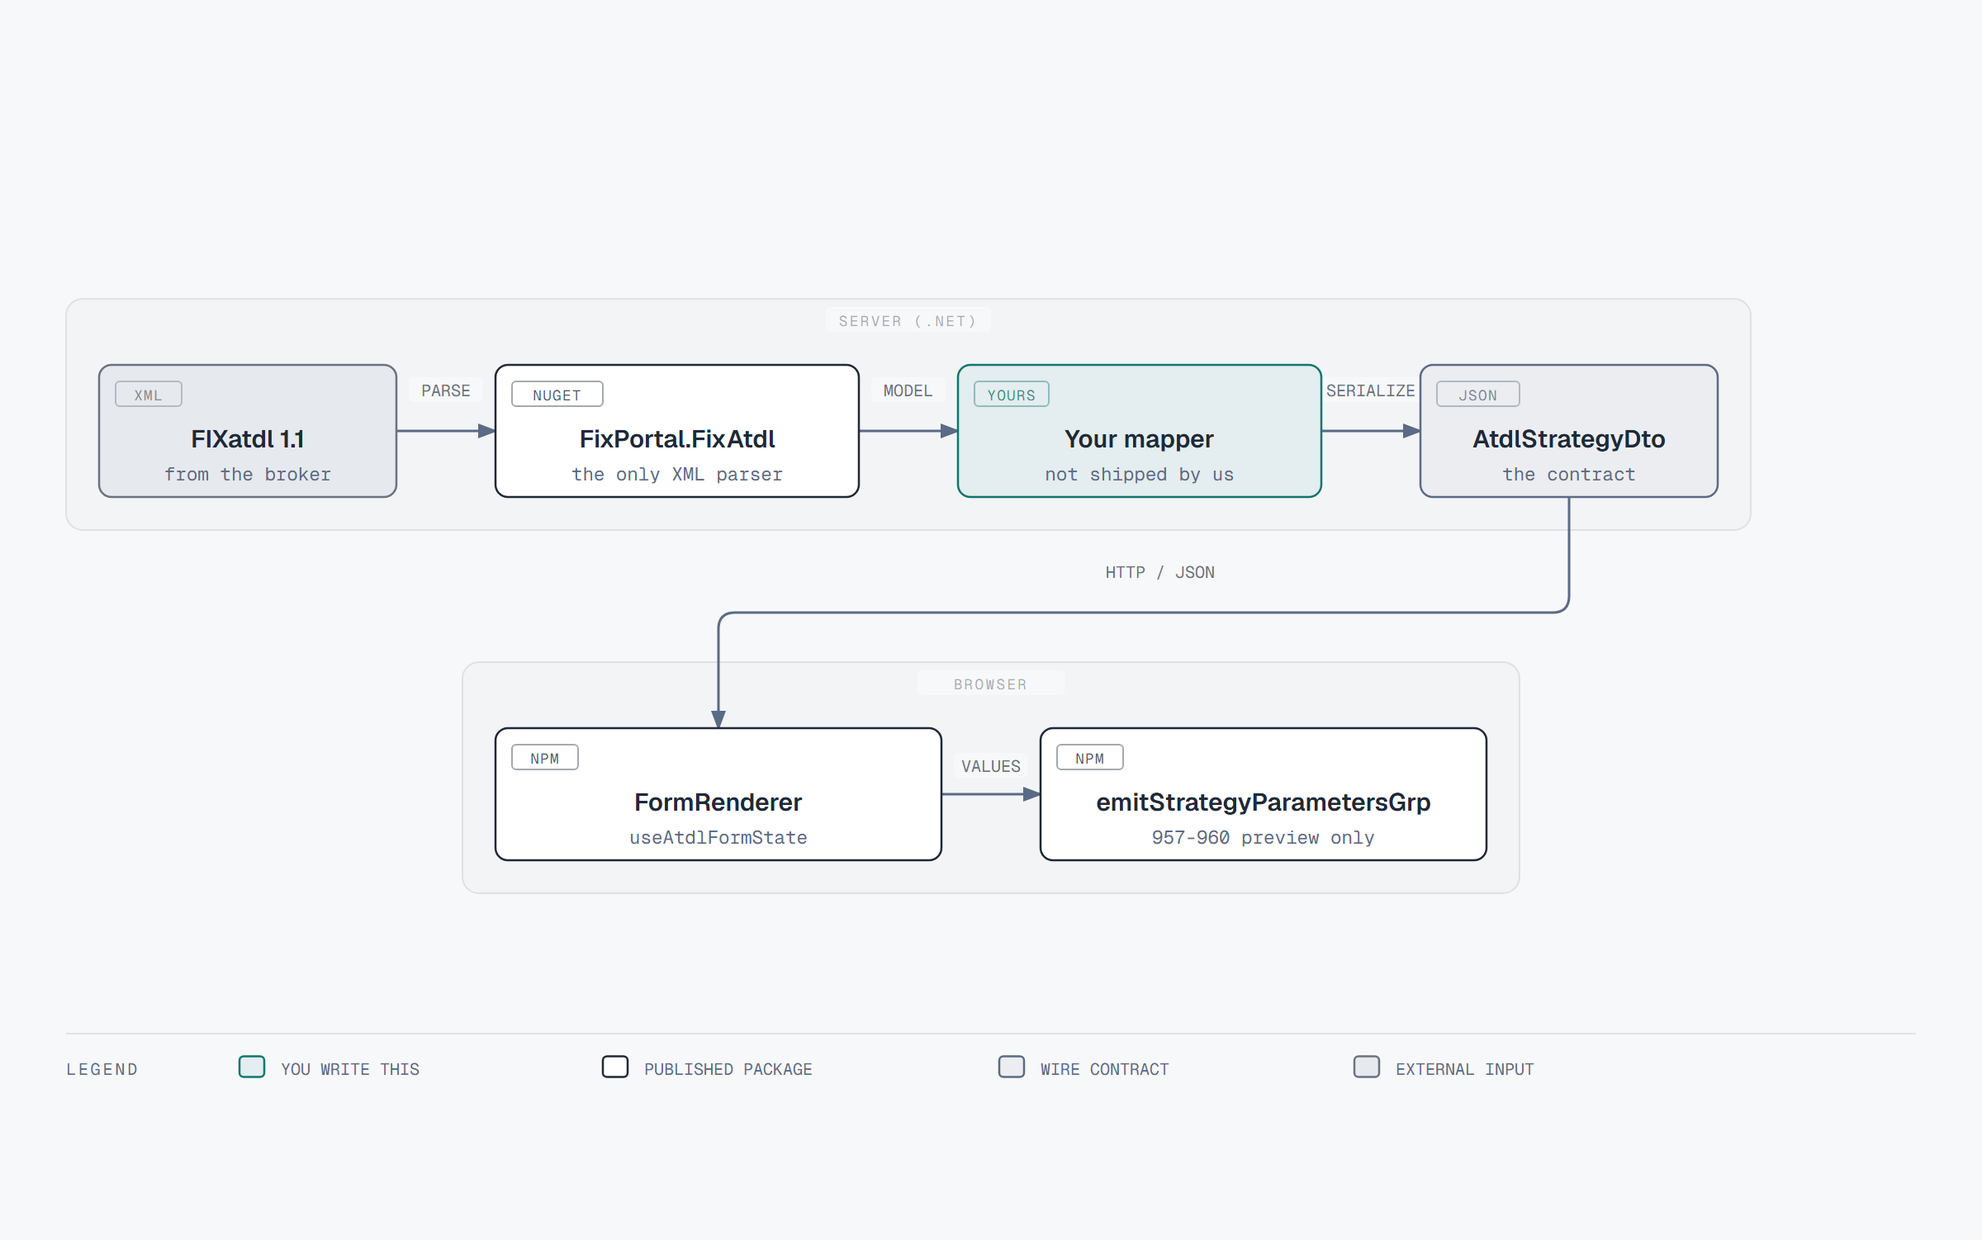
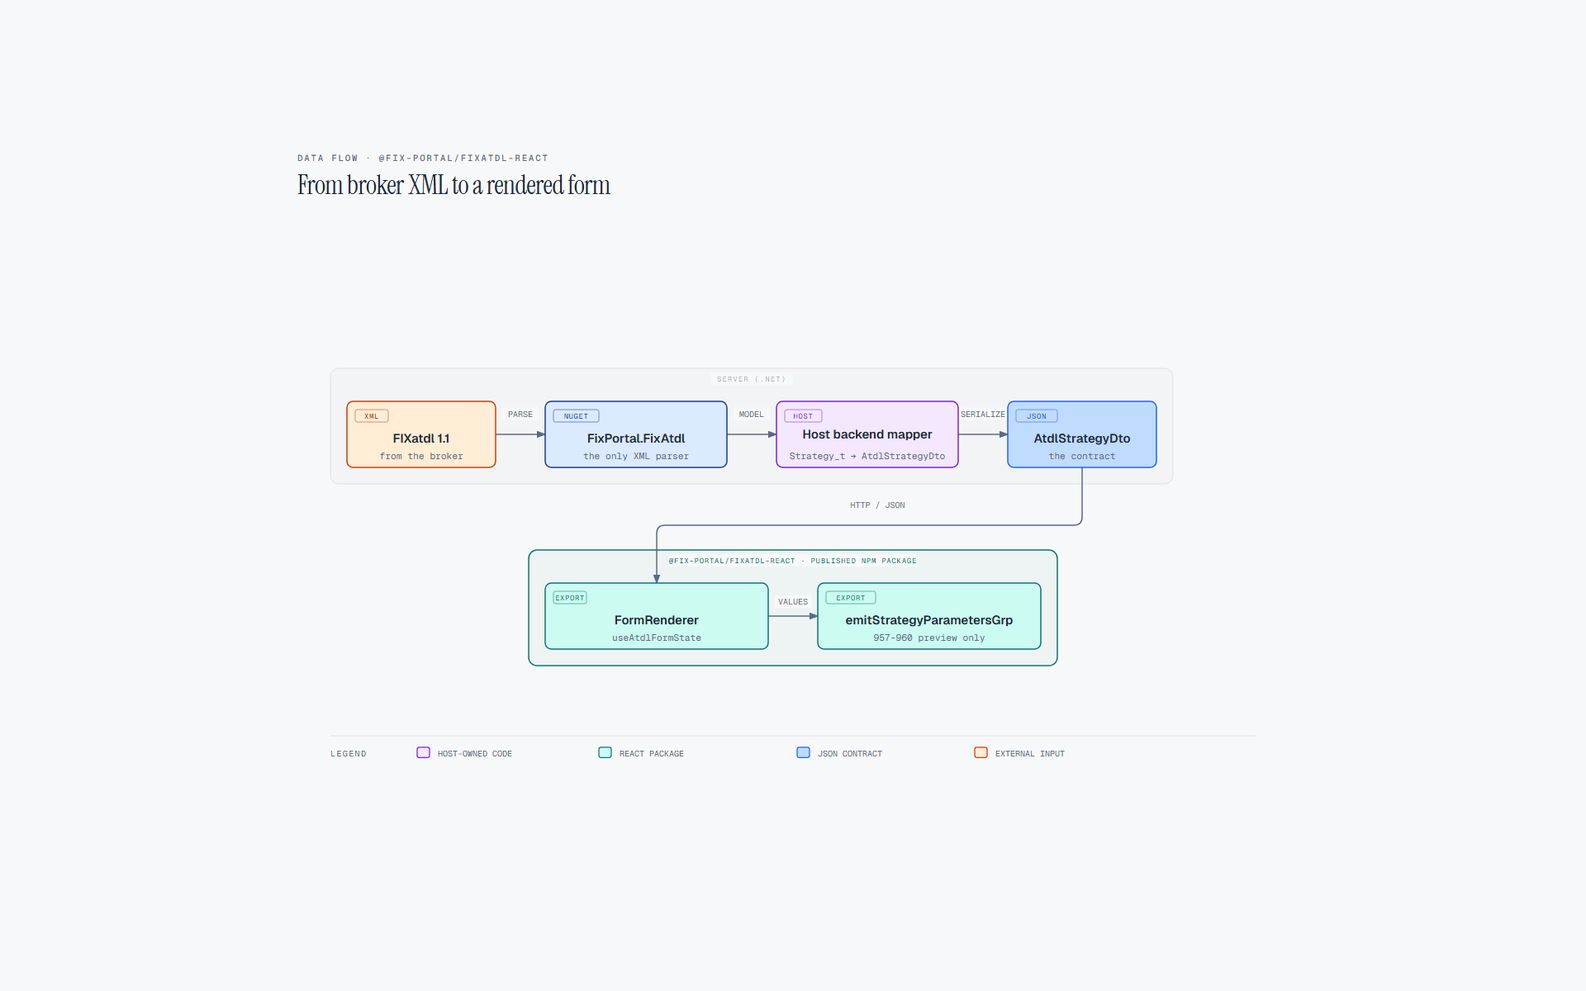
docs: complete and verify the public contract

diff --git a/docs/diagrams/strategy-dataflow.html b/docs/diagrams/strategy-dataflow.html
@@ -55,7 +55,7 @@
 
     <svg viewBox="0 0 960 600" xmlns="http://www.w3.org/2000/svg" role="img" aria-labelledby="reactflow-title reactflow-desc">
       <title id="reactflow-title">From broker XML to a rendered form</title>
-      <desc id="reactflow-desc">On the server the core .NET library parses broker FIXatdl XML into Strategy_t, which a mapper you write turns into the AtdlStrategyDto JSON contract; the browser package renders that DTO as a form and previews the 957 to 960 tags. This package never parses XML.</desc>
+      <desc id="reactflow-desc">On the server the core .NET library parses broker FIXatdl XML into Strategy_t, which host-owned backend mapping code turns into the AtdlStrategyDto JSON contract; the @fix-portal/fixatdl-react package renders that DTO as a form and previews the 957 to 960 tags. This package never parses XML.</desc>
       <defs>
         <marker id="arrow" markerWidth="8" markerHeight="6" refX="7" refY="3" orient="auto"><polygon points="0 0, 8 3, 0 6" fill="#5b6b85"/></marker>
         <marker id="arrow-accent" markerWidth="8" markerHeight="6" refX="7" refY="3" orient="auto"><polygon points="0 0, 8 3, 0 6" fill="#0f766e"/></marker>
@@ -69,9 +69,9 @@
       <rect x="400" y="148" width="80" height="12" rx="2" fill="#f7f8fa"/>
       <text x="440" y="157" fill="rgba(31,41,55,0.40)" font-size="7" font-family="'Geist Mono', monospace" text-anchor="middle" letter-spacing="0.14em">SERVER (.NET)</text>
 
-      <rect x="224" y="320" width="512" height="112" rx="8" fill="rgba(31,41,55,0.02)" stroke="rgba(31,41,55,0.10)" stroke-width="0.8"/>
-      <rect x="444" y="324" width="72" height="12" rx="2" fill="#f7f8fa"/>
-      <text x="480" y="333" fill="rgba(31,41,55,0.40)" font-size="7" font-family="'Geist Mono', monospace" text-anchor="middle" letter-spacing="0.14em">BROWSER</text>
+      <rect x="224" y="320" width="512" height="112" rx="8" fill="rgba(15,118,110,0.04)" stroke="#0f766e" stroke-width="1.2"/>
+      <rect x="360" y="324" width="240" height="12" rx="2" fill="#f7f8fa"/>
+      <text x="480" y="333" fill="#0f766e" font-size="7" font-family="'Geist Mono', monospace" text-anchor="middle" letter-spacing="0.10em">@FIX-PORTAL/FIXATDL-REACT · PUBLISHED NPM PACKAGE</text>
 
       <!-- ===== ARROWS ===== -->
       <line x1="192" y1="208" x2="240" y2="208" stroke="#5b6b85" stroke-width="1.2" marker-end="url(#arrow)"/>
@@ -97,50 +97,50 @@
 
       <!-- ===== NODES ===== -->
       <!-- N1 broker XML -->
-      <rect x="48" y="176" width="144" height="64" rx="6" fill="#f7f8fa"/>
-      <rect x="48" y="176" width="144" height="64" rx="6" fill="rgba(91,107,133,0.10)" stroke="#6b7280" stroke-width="1"/>
-      <rect x="56" y="184" width="32" height="12" rx="2" fill="transparent" stroke="rgba(107,114,128,0.40)" stroke-width="0.8"/>
-      <text x="72" y="193" fill="rgba(107,114,128,0.80)" font-size="7" font-family="'Geist Mono', monospace" text-anchor="middle" letter-spacing="0.08em">XML</text>
+      <rect x="48" y="176" width="144" height="64" rx="6" fill="#fffbeb"/>
+      <rect x="48" y="176" width="144" height="64" rx="6" fill="#ffedd5" stroke="#c2410c" stroke-width="1.2"/>
+      <rect x="56" y="184" width="32" height="12" rx="2" fill="transparent" stroke="rgba(194,65,12,0.55)" stroke-width="0.8"/>
+      <text x="72" y="193" fill="#9a3412" font-size="7" font-family="'Geist Mono', monospace" text-anchor="middle" letter-spacing="0.08em">XML</text>
       <text x="120" y="216" fill="#1f2937" font-size="12" font-weight="600" font-family="'Geist', sans-serif" text-anchor="middle">FIXatdl 1.1</text>
       <text x="120" y="232" fill="#5b6b85" font-size="9" font-family="'Geist Mono', monospace" text-anchor="middle">from the broker</text>
 
       <!-- N2 core -->
-      <rect x="240" y="176" width="176" height="64" rx="6" fill="#f7f8fa"/>
-      <rect x="240" y="176" width="176" height="64" rx="6" fill="#ffffff" stroke="#1f2937" stroke-width="1"/>
-      <rect x="248" y="184" width="44" height="12" rx="2" fill="transparent" stroke="rgba(31,41,55,0.40)" stroke-width="0.8"/>
-      <text x="270" y="193" fill="rgba(31,41,55,0.80)" font-size="7" font-family="'Geist Mono', monospace" text-anchor="middle" letter-spacing="0.08em">NUGET</text>
+      <rect x="240" y="176" width="176" height="64" rx="6" fill="#eef2ff"/>
+      <rect x="240" y="176" width="176" height="64" rx="6" fill="#dbeafe" stroke="#1e3a8a" stroke-width="1.2"/>
+      <rect x="248" y="184" width="44" height="12" rx="2" fill="transparent" stroke="rgba(30,58,138,0.55)" stroke-width="0.8"/>
+      <text x="270" y="193" fill="#1e3a8a" font-size="7" font-family="'Geist Mono', monospace" text-anchor="middle" letter-spacing="0.08em">NUGET</text>
       <text x="328" y="216" fill="#1f2937" font-size="12" font-weight="600" font-family="'Geist', sans-serif" text-anchor="middle">FixPortal.FixAtdl</text>
       <text x="328" y="232" fill="#5b6b85" font-size="9" font-family="'Geist Mono', monospace" text-anchor="middle">the only XML parser</text>
 
-      <!-- N3 your mapper (FOCAL) -->
-      <rect x="464" y="176" width="176" height="64" rx="6" fill="#f7f8fa"/>
-      <rect x="464" y="176" width="176" height="64" rx="6" fill="rgba(15,118,110,0.08)" stroke="#0f766e" stroke-width="1"/>
-      <rect x="472" y="184" width="36" height="12" rx="2" fill="transparent" stroke="rgba(15,118,110,0.40)" stroke-width="0.8"/>
-      <text x="490" y="193" fill="rgba(15,118,110,0.80)" font-size="7" font-family="'Geist Mono', monospace" text-anchor="middle" letter-spacing="0.08em">YOURS</text>
-      <text x="552" y="216" fill="#1f2937" font-size="12" font-weight="600" font-family="'Geist', sans-serif" text-anchor="middle">Your mapper</text>
-      <text x="552" y="232" fill="#5b6b85" font-size="9" font-family="'Geist Mono', monospace" text-anchor="middle">not shipped by us</text>
+      <!-- N3 host mapper -->
+      <rect x="464" y="176" width="176" height="64" rx="6" fill="#faf5ff"/>
+      <rect x="464" y="176" width="176" height="64" rx="6" fill="#f3e8ff" stroke="#7e22ce" stroke-width="1.2"/>
+      <rect x="472" y="184" width="36" height="12" rx="2" fill="transparent" stroke="rgba(126,34,206,0.55)" stroke-width="0.8"/>
+      <text x="490" y="193" fill="#7e22ce" font-size="7" font-family="'Geist Mono', monospace" text-anchor="middle" letter-spacing="0.08em">HOST</text>
+      <text x="552" y="212" fill="#1f2937" font-size="12" font-weight="600" font-family="'Geist', sans-serif" text-anchor="middle">Host backend mapper</text>
+      <text x="552" y="232" fill="#5b6b85" font-size="9" font-family="'Geist Mono', monospace" text-anchor="middle">Strategy_t → AtdlStrategyDto</text>
 
       <!-- N4 the DTO contract -->
-      <rect x="688" y="176" width="144" height="64" rx="6" fill="#f7f8fa"/>
-      <rect x="688" y="176" width="144" height="64" rx="6" fill="rgba(31,41,55,0.05)" stroke="#5b6b85" stroke-width="1"/>
-      <rect x="696" y="184" width="40" height="12" rx="2" fill="transparent" stroke="rgba(91,107,133,0.40)" stroke-width="0.8"/>
-      <text x="716" y="193" fill="rgba(91,107,133,0.80)" font-size="7" font-family="'Geist Mono', monospace" text-anchor="middle" letter-spacing="0.08em">JSON</text>
+      <rect x="688" y="176" width="144" height="64" rx="6" fill="#eff6ff"/>
+      <rect x="688" y="176" width="144" height="64" rx="6" fill="#bfdbfe" stroke="#2563eb" stroke-width="1.2"/>
+      <rect x="696" y="184" width="40" height="12" rx="2" fill="transparent" stroke="rgba(37,99,235,0.55)" stroke-width="0.8"/>
+      <text x="716" y="193" fill="#1d4ed8" font-size="7" font-family="'Geist Mono', monospace" text-anchor="middle" letter-spacing="0.08em">JSON</text>
       <text x="760" y="216" fill="#1f2937" font-size="12" font-weight="600" font-family="'Geist', sans-serif" text-anchor="middle">AtdlStrategyDto</text>
       <text x="760" y="232" fill="#5b6b85" font-size="9" font-family="'Geist Mono', monospace" text-anchor="middle">the contract</text>
 
       <!-- N5 renderer -->
-      <rect x="240" y="352" width="216" height="64" rx="6" fill="#f7f8fa"/>
-      <rect x="240" y="352" width="216" height="64" rx="6" fill="#ffffff" stroke="#1f2937" stroke-width="1"/>
-      <rect x="248" y="360" width="32" height="12" rx="2" fill="transparent" stroke="rgba(31,41,55,0.40)" stroke-width="0.8"/>
-      <text x="264" y="369" fill="rgba(31,41,55,0.80)" font-size="7" font-family="'Geist Mono', monospace" text-anchor="middle" letter-spacing="0.08em">NPM</text>
+      <rect x="240" y="352" width="216" height="64" rx="6" fill="#ecfdf5"/>
+      <rect x="240" y="352" width="216" height="64" rx="6" fill="#ccfbf1" stroke="#0f766e" stroke-width="1.2"/>
+      <rect x="248" y="360" width="32" height="12" rx="2" fill="transparent" stroke="rgba(15,118,110,0.55)" stroke-width="0.8"/>
+      <text x="264" y="369" fill="#0f766e" font-size="7" font-family="'Geist Mono', monospace" text-anchor="middle" letter-spacing="0.08em">EXPORT</text>
       <text x="348" y="392" fill="#1f2937" font-size="12" font-weight="600" font-family="'Geist', sans-serif" text-anchor="middle">FormRenderer</text>
       <text x="348" y="408" fill="#5b6b85" font-size="9" font-family="'Geist Mono', monospace" text-anchor="middle">useAtdlFormState</text>
 
       <!-- N6 preview emitter -->
-      <rect x="504" y="352" width="216" height="64" rx="6" fill="#f7f8fa"/>
-      <rect x="504" y="352" width="216" height="64" rx="6" fill="#ffffff" stroke="#1f2937" stroke-width="1"/>
-      <rect x="512" y="360" width="32" height="12" rx="2" fill="transparent" stroke="rgba(31,41,55,0.40)" stroke-width="0.8"/>
-      <text x="528" y="369" fill="rgba(31,41,55,0.80)" font-size="7" font-family="'Geist Mono', monospace" text-anchor="middle" letter-spacing="0.08em">NPM</text>
+      <rect x="504" y="352" width="216" height="64" rx="6" fill="#ecfdf5"/>
+      <rect x="504" y="352" width="216" height="64" rx="6" fill="#ccfbf1" stroke="#0f766e" stroke-width="1.2"/>
+      <rect x="512" y="360" width="48" height="12" rx="2" fill="transparent" stroke="rgba(15,118,110,0.55)" stroke-width="0.8"/>
+      <text x="536" y="369" fill="#0f766e" font-size="7" font-family="'Geist Mono', monospace" text-anchor="middle" letter-spacing="0.08em">EXPORT</text>
       <text x="612" y="392" fill="#1f2937" font-size="12" font-weight="600" font-family="'Geist', sans-serif" text-anchor="middle">emitStrategyParametersGrp</text>
       <text x="612" y="408" fill="#5b6b85" font-size="9" font-family="'Geist Mono', monospace" text-anchor="middle">957-960 preview only</text>
 
@@ -148,16 +148,16 @@
       <line x1="32" y1="500" x2="928" y2="500" stroke="rgba(31,41,55,0.10)" stroke-width="0.8"/>
       <text x="32" y="520" fill="#5b6b85" font-size="8" font-family="'Geist Mono', monospace" letter-spacing="0.14em">LEGEND</text>
 
-      <rect x="116" y="511" width="12" height="10" rx="2" fill="rgba(15,118,110,0.08)" stroke="#0f766e" stroke-width="1"/>
-      <text x="136" y="520" fill="#5b6b85" font-size="8" font-family="'Geist Mono', monospace">YOU WRITE THIS</text>
+      <rect x="116" y="511" width="12" height="10" rx="2" fill="#f3e8ff" stroke="#7e22ce" stroke-width="1"/>
+      <text x="136" y="520" fill="#5b6b85" font-size="8" font-family="'Geist Mono', monospace">HOST-OWNED CODE</text>
 
-      <rect x="292" y="511" width="12" height="10" rx="2" fill="#ffffff" stroke="#1f2937" stroke-width="1"/>
-      <text x="312" y="520" fill="#5b6b85" font-size="8" font-family="'Geist Mono', monospace">PUBLISHED PACKAGE</text>
+      <rect x="292" y="511" width="12" height="10" rx="2" fill="#ccfbf1" stroke="#0f766e" stroke-width="1"/>
+      <text x="312" y="520" fill="#5b6b85" font-size="8" font-family="'Geist Mono', monospace">REACT PACKAGE</text>
 
-      <rect x="484" y="511" width="12" height="10" rx="2" fill="rgba(31,41,55,0.05)" stroke="#5b6b85" stroke-width="1"/>
-      <text x="504" y="520" fill="#5b6b85" font-size="8" font-family="'Geist Mono', monospace">WIRE CONTRACT</text>
+      <rect x="484" y="511" width="12" height="10" rx="2" fill="#bfdbfe" stroke="#2563eb" stroke-width="1"/>
+      <text x="504" y="520" fill="#5b6b85" font-size="8" font-family="'Geist Mono', monospace">JSON CONTRACT</text>
 
-      <rect x="656" y="511" width="12" height="10" rx="2" fill="rgba(91,107,133,0.10)" stroke="#6b7280" stroke-width="1"/>
+      <rect x="656" y="511" width="12" height="10" rx="2" fill="#ffedd5" stroke="#c2410c" stroke-width="1"/>
       <text x="676" y="520" fill="#5b6b85" font-size="8" font-family="'Geist Mono', monospace">EXTERNAL INPUT</text>
     </svg>
   </div>

diff --git a/docs/getting-a-strategy.md b/docs/getting-a-strategy.md
@@ -10,9 +10,152 @@
 A worked JSON example is
 [`src/__fixtures__/twap-strategy.json`](https://github.com/FixPortal/fixportal-fixatdl-react/blob/main/src/__fixtures__/twap-strategy.json).
 
+## Worked mapper example
+
+The mapper belongs to the host backend. It receives the parsed `Strategy_t`
+from `FixPortal.FixAtdl` and emits the JSON contract consumed by this package.
+The maintained FixPortal Simulator implementation is [`AtdlDtoMapper.cs`](https://github.com/FixPortal/fixportal-simulator-backend/blob/main/src/FixPortal.Simulator.Atdl/Mapping/AtdlDtoMapper.cs).
+The following is the important end-to-end shape from that mapper, reduced to
+the strategy, parameter, panel, and control boundaries:
+
+```csharp
+private AtdlStrategyDto MapStrategy(
+    Strategy_t source,
+    IReadOnlyDictionary<string, string> sourceXmlByStrategy,
+    EditCollection? globalEdits)
+{
+    var parameterDtos = source.Parameters.Select(MapParameter).ToList();
+    var parametersByName = parameterDtos
+        .GroupBy(parameter => parameter.Name)
+        .ToDictionary(group => group.Key, group => group.Last());
+    var comparisonTypes = source.Controls
+        .GroupBy(control => control.Id)
+        .ToDictionary(group => group.Key, group => group.Last().GetType().Name);
+    var astBuilder = new StateRuleAstBuilder(globalEdits, source.Edits, comparisonTypes);
+    var panel = source.StrategyLayout?.StrategyPanel is { } root
+        ? MapPanel(root, parametersByName, astBuilder)
+        : new AtdlPanelDto(null, "None", "Vertical", false, false, []);
+
+    sourceXmlByStrategy.TryGetValue(source.Name, out var sourceXml);
+    return new AtdlStrategyDto(
+        source.Name,
+        source.Description?.Content,
+        parameterDtos,
+        panel,
+        sourceXml ?? string.Empty,
+        source.StrategyEdits.Select(edit => MapStrategyEdit(edit, astBuilder, parametersByName)).ToList());
+}
+
+private AtdlPanelDto MapPanel(
+    StrategyPanel_t source,
+    IReadOnlyDictionary<string, AtdlParameterDto> parametersByName,
+    StateRuleAstBuilder astBuilder)
+{
+    var children = source.StrategyPanels
+        .Select(child => (AtdlPanelChildDto)MapPanel(child, parametersByName, astBuilder))
+        .Concat(source.Controls.OrderBy(control => control.Index)
+            .Select(control => (AtdlPanelChildDto)MapControl(control, parametersByName, astBuilder)))
+        .ToList();
+    return new AtdlPanelDto(
+        source.Title,
+        source.Border?.ToString() ?? "None",
+        source.Orientation?.ToString() ?? "Vertical",
+        source.Collapsible ?? false,
+        source.Collapsed ?? false,
+        children);
+}
+
+private static AtdlControlDto MapControl(
+    Control_t source,
+    IReadOnlyDictionary<string, AtdlParameterDto> parametersByName,
+    StateRuleAstBuilder astBuilder)
+{
+    parametersByName.TryGetValue(source.ParameterRef ?? string.Empty, out var parameter);
+    var listItems = source is ListControlBase list && list.HasListItems
+        ? list.ListItems.Select(item => new AtdlListItemDto(item.EnumId, item.UiRep)).ToList()
+        : null;
+    return new AtdlControlDto(
+        source.Id,
+        source.GetType().Name,
+        source.Label,
+        string.IsNullOrEmpty(source.ParameterRef) ? null : source.ParameterRef,
+        parameter,
+        listItems,
+        GetInitValue(source),
+        MapStateRules(source, astBuilder),
+        source.ToolTip);
+}
+```
+
+The omitted helpers are mechanical projections of the same contract: map every
+parameter field, inline the resolved parameter into each control, emit each
+`enabled`, `visible`, and `value` state rule with its AST, preserve strategy
+edits, and carry control-specific fields such as enums, increments, clocks,
+timezones, and `UseFixField` initialization. A production mapper must also
+bound panel recursion and preserve the host’s validation/error policy. In JSON,
+the complete minimal DTO handed to the browser looks like this; panel children
+carry the discriminator explicitly:
+
+```json
+{
+  "name": "DemoStrategy",
+  "description": "Synthetic example",
+  "parameters": [{
+    "name": "OrderQty",
+    "fixTag": 38,
+    "type": "Int_t",
+    "enumValues": null,
+    "min": 1,
+    "max": 1000000,
+    "precision": null,
+    "mutableOnCxlRpl": true,
+    "useValue": "required",
+    "defaultValue": null
+  }],
+  "panel": {
+    "title": null,
+    "border": "None",
+    "orientation": "Vertical",
+    "collapsible": false,
+    "collapsed": false,
+    "children": [{
+      "kind": "control",
+      "id": "orderQty",
+      "type": "SingleSpinner_t",
+      "label": "Order quantity",
+      "parameterRef": "OrderQty",
+      "parameter": null,
+      "listItems": null,
+      "initValue": null,
+      "stateRules": [],
+      "tooltip": null,
+      "increment": 1
+    }]
+  },
+  "sourceXml": "<Strategy name=\"DemoStrategy\" />",
+  "strategyEdits": []
+}
+```
+
+In the production payload, `parameter` is normally the resolved inline copy
+of the matching entry in `parameters`; the example leaves it `null` only to
+show that the top-level parameter list is the source of truth for the DTO
+contract. The actual Simulator mapper inlines it for controls and emits all
+control-specific fields.
+
+Return the DTO from the host API, then pass it to the published package:
+
+```tsx
+import { FormRenderer, type AtdlStrategyDto } from '@fix-portal/fixatdl-react'
+
+export function StrategyEditor({ strategy }: { strategy: AtdlStrategyDto }) {
+  return <FormRenderer strategy={strategy} options={{ clock: () => new Date() }} />
+}
+```
+
 ## Pipeline
 
-![From broker XML to a rendered form: the core .NET library parses the XML on the server, a mapper you write turns Strategy_t into the AtdlStrategyDto JSON contract, and the browser package renders it and previews the 957-960 tags](images/strategy-dataflow.png)
+![From broker XML to a rendered form: the core .NET library parses the XML on the server, host-owned backend mapping code turns Strategy_t into the AtdlStrategyDto JSON contract, and the @fix-portal/fixatdl-react package renders it and previews the 957-960 tags](images/strategy-dataflow.png)
 
 <sub>Source: [`docs/diagrams/strategy-dataflow.html`](diagrams/strategy-dataflow.html) — open in a browser to edit, then re-export.</sub>
 

diff --git a/docs/releasing.md b/docs/releasing.md
@@ -1,0 +1,52 @@
+# Releasing `@fix-portal/fixatdl-react`
+
+Releases are created from a merged commit on `main`. The tag, package version,
+changelog entry, GitHub release, and npm `latest` version must agree.
+
+## Prepare the release
+
+1. Update `package.json` and add a dated consumer-facing section to
+   `CHANGELOG.md`.
+2. Run the full local gate from [CONTRIBUTING.md](../CONTRIBUTING.md), including
+   `npm run docs:check`, the browser smoke when applicable, and `npm pack --dry-run`.
+3. Open a pull request against `main`. The repository ruleset permits rebase
+   merge only and requires `CI Gate` plus `Review policy intact`.
+4. After merge, update the local checkout with `git switch main` and
+   `git pull --ff-only`.
+
+## Tag and publish
+
+Create and push the version tag from the merged `main` commit:
+
+```powershell
+git tag v0.3.0
+git push origin v0.3.0
+```
+
+Replace `0.3.0` with the version in `package.json`. The release workflow
+verifies that the tag is reachable from `main`, matches `package.json`, passes
+the package gate, and publishes through npm trusted publishing with provenance.
+Do not run `npm publish` manually for a normal release.
+
+## Verify the release
+
+```powershell
+npm view @fix-portal/fixatdl-react version dist-tags --json
+gh release view v0.3.0 --repo FixPortal/fixportal-fixatdl-react
+gh run list --repo FixPortal/fixportal-fixatdl-react --limit 5
+```
+
+Create the GitHub release for the tag and use the matching `CHANGELOG.md`
+section as its notes. Confirm the release is not a draft, npm `latest` points
+to the same version, and the workflow reports successful provenance.
+
+## Release checklist
+
+- [ ] Version in `package.json` and changelog agree.
+- [ ] `npm run docs:check` passes.
+- [ ] Full local package gate passes.
+- [ ] PR merged into `main` using rebase.
+- [ ] `v<version>` tag points at the merged commit.
+- [ ] Release workflow passed and npm provenance is present.
+- [ ] GitHub release exists for the tag.
+- [ ] npm `latest` matches the tag version.

diff --git a/CHANGELOG.md b/CHANGELOG.md
@@ -97,3 +97,8 @@ sees.
 First public release of the extracted package. React FIXatdl strategy forms:
 `FormRenderer`, `PanelRenderer`, the `useAtdlFormState` hook, the 15-control
 registry, state-rule evaluation and the StrategyParametersGrp preview emitter.
+
+[Unreleased]: https://github.com/FixPortal/fixportal-fixatdl-react/compare/v0.3.0...HEAD
+[0.3.0]: https://github.com/FixPortal/fixportal-fixatdl-react/compare/v0.2.1...v0.3.0
+[0.2.1]: https://github.com/FixPortal/fixportal-fixatdl-react/compare/v0.2.0...v0.2.1
+[0.2.0]: https://github.com/FixPortal/fixportal-fixatdl-react/releases/tag/v0.2.0

diff --git a/docs/api.md b/docs/api.md
@@ -1,6 +1,6 @@
 # API reference — `@fix-portal/fixatdl-react`
 
-> Every public export of `@fix-portal/fixatdl-react` (package 0.2.x), exactly
+> Every public export of `@fix-portal/fixatdl-react` (package 0.3.x), exactly
 > as re-exported from `src/index.ts`. Walkthroughs stay in the
 > [README](../README.md); how to produce the DTO is in
 > [getting-a-strategy.md](getting-a-strategy.md). This page is the
